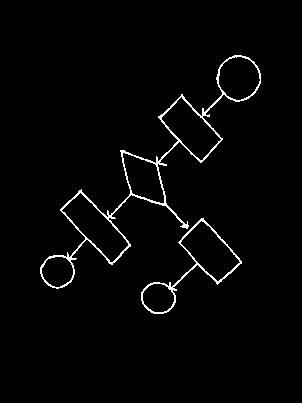
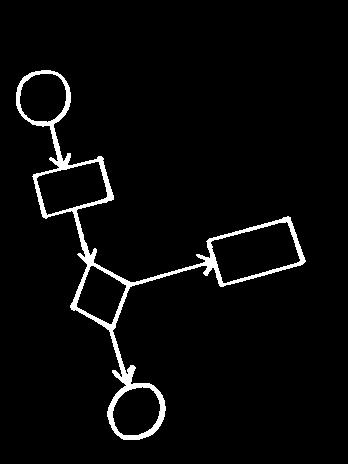
Cleaned

diff --git a/flowchartgenerator.m b/flowchartgenerator.m
@@ -1,10 +1,10 @@
-%%
+%% Init
 close all
 clc
 clear
 
 %% Read Image
-im = imread('input1.jpg');
+im = imread('Inputs/input4big.jpg');
 figure;
 imshow(im);
 title('Original Image');
@@ -13,7 +13,7 @@ title('Original Image');
 im = rgb2gray(im);
 [nrows, ncols] = size(im);
 r = nrows/ncols;
-im = imresize(im, [nrows/r, ncols*r]);
+im = imresize(im, [nrows, ncols]/10);
 figure;
 imshow(im);
 title('Grayscaled and Resized Image');
@@ -25,20 +25,20 @@ title('Grayscaled and Resized Image');
 
 %% Adaptive Thresholding
 T = adaptthresh(im, 0.4, 'ForegroundPolarity','dark');
-% figure;
-% imagesc(T);
+figure;
+imagesc(T);
 im = imbinarize(im,T);
 figure;
 imshow(im);
 title('Binary Image');
-imwrite(im, 'BinaryImage.jpg');
+imwrite(im, './Outputs/BinaryImage.jpg');
 
 %% Bitwise Inversion
 im = 1-im;
 figure;
 imshow(im);
 title('Inverted Image');
-imwrite(im, 'InvertedImage.jpg');
+imwrite(im, 'Outputs/InvertedImage.jpg');
 
 %% Display diff regions in image
 % [rgn, n] = bwlabel(im);
@@ -56,21 +56,21 @@ BW2 = ismember(L, find([S.Area] >= 50*nrows/100));
 figure;
 imshow(BW2);
 title('Image Cleaned');
-imwrite(BW2, 'CleanedImage.jpg');
+imwrite(BW2, 'Outputs/CleanedImage.jpg');
 
 %% Image Fill
 imf = imfill(BW2, 'holes');
 figure;
 imshow(imf);
 title('Filled Image');
-imwrite(imf, 'FilledImage.jpg');
+imwrite(imf, 'Outputs/FilledImage.jpg');
 
 %% Edge Detection
 edge_BW = edge(imf, 'zerocross');
 figure;
 imshow(edge_BW);
 title('Edge Detection');
-imwrite(edge_BW, 'EdgeDetection.jpg');
+imwrite(edge_BW, 'Outputs/EdgeDetection.jpg');
 
 %% Hough Transform (In-built)
 % angle = horizon(imf);
@@ -112,17 +112,17 @@ title('Detected Lines');
 
 lines = houghlines(edge_BW, theta, rho, peaks);
 
-best_angle = mode([lines.theta])+90;
+best_angle = mode([lines.theta]);
 im_rot = imrotate(BW2, best_angle);
 imf_rot = imrotate(imf, best_angle);
 figure;
 imshow(im_rot);
 title('Rotated Image');
-imwrite(im_rot, 'RotatedImage.jpg');
+imwrite(im_rot, 'Outputs/RotatedImage.jpg');
 figure;
 imshow(imf_rot);
 title('Filled Image');
-imwrite(imf_rot, 'RotatedFilledImage.jpg');
+imwrite(imf_rot, 'Outputs/RotatedFilledImage.jpg');
 
 %% Decomposition
 
@@ -141,10 +141,10 @@ shps = imbinarize(shps);
 bw3 = bwareaopen(shps, 10);
 figure, imshow(bw3);
 title('Only Arrows');
-imwrite(bw3, 'Arrows.jpg');
+imwrite(bw3, 'Outputs/Arrows.jpg');
 
 shps = im_rot - bw3;
 figure;
 imshow(shps);
 title('Only Shapes');
-imwrite(shps, 'Shapes.jpg');
+imwrite(shps, 'Outputs/Shapes.jpg');
